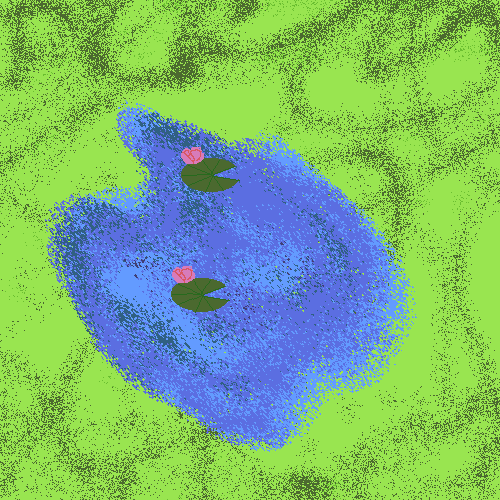
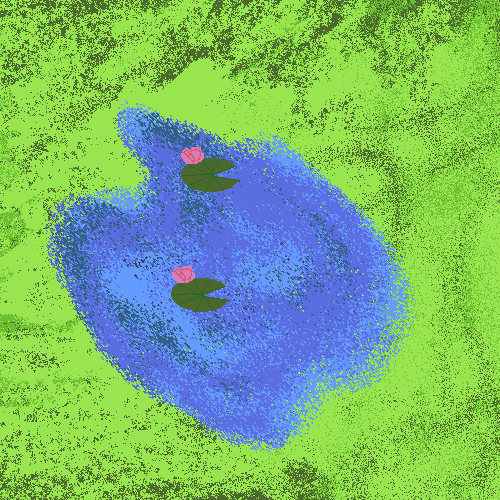
add marsh background, working tiles

diff --git a/scripts/graphics.js b/scripts/graphics.js
@@ -28,8 +28,8 @@ var graphics = (function(){
 
     tiles = {
       size: 500,
-      src0: "assets/map/map [www.imagesplitter.net]-",
-      src1: "assets/map/marsh background [www.imagesplitter.net]-",
+      src0: "assets/map/marsh background [www.imagesplitter.net]-",
+      src1: "assets/map/map [www.imagesplitter.net]-",
       //src2:
       //src3:
       columns: 16,
@@ -161,8 +161,6 @@ var graphics = (function(){
 
         for(let xPos = tileRenderXStart; xPos <= tileRenderXEnd; xPos++){
           for(let yPos = tileRenderYStart; yPos <= tileRenderYEnd; yPos++){
-            let tile = new Image();
-            tile.src = tiles.src + yPos + "-" + xPos + ".png";
 
             let tileXDepth = (xPos - tileRenderXStart) * tiles.size;
             let xOffset = (tileRenderXStart * tiles.size) - camera.pt1.x;
@@ -177,7 +175,7 @@ var graphics = (function(){
             let xWidth = Math.min(tiles.size, viewport.pt3.x - xPos*tiles.size);
             let yWidth = Math.min(tiles.size, viewport.pt2.y - yPos*tiles.size);
 
-            tileContext.drawImage(tile,
+            tileContext.drawImage(tiles[xPos][yPos],
                 cropX, cropY, xWidth, yWidth,
                 xDraw, yDraw, xWidth, yWidth);
           }
